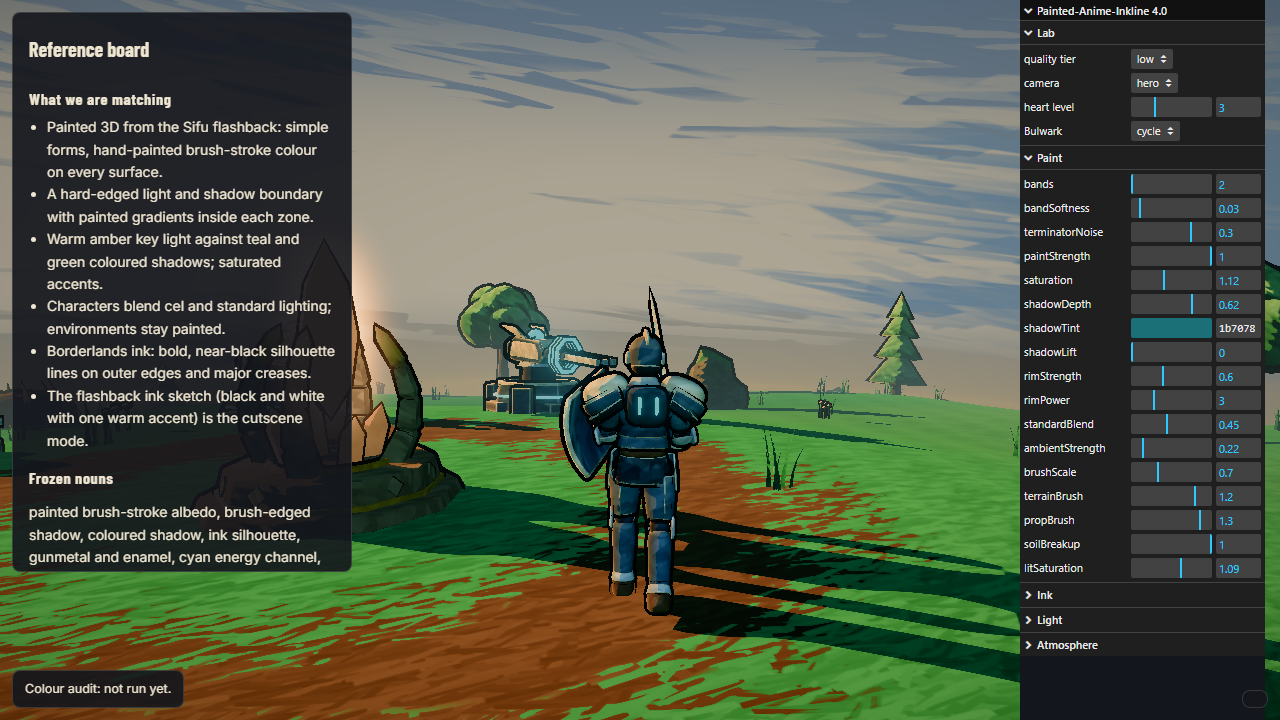
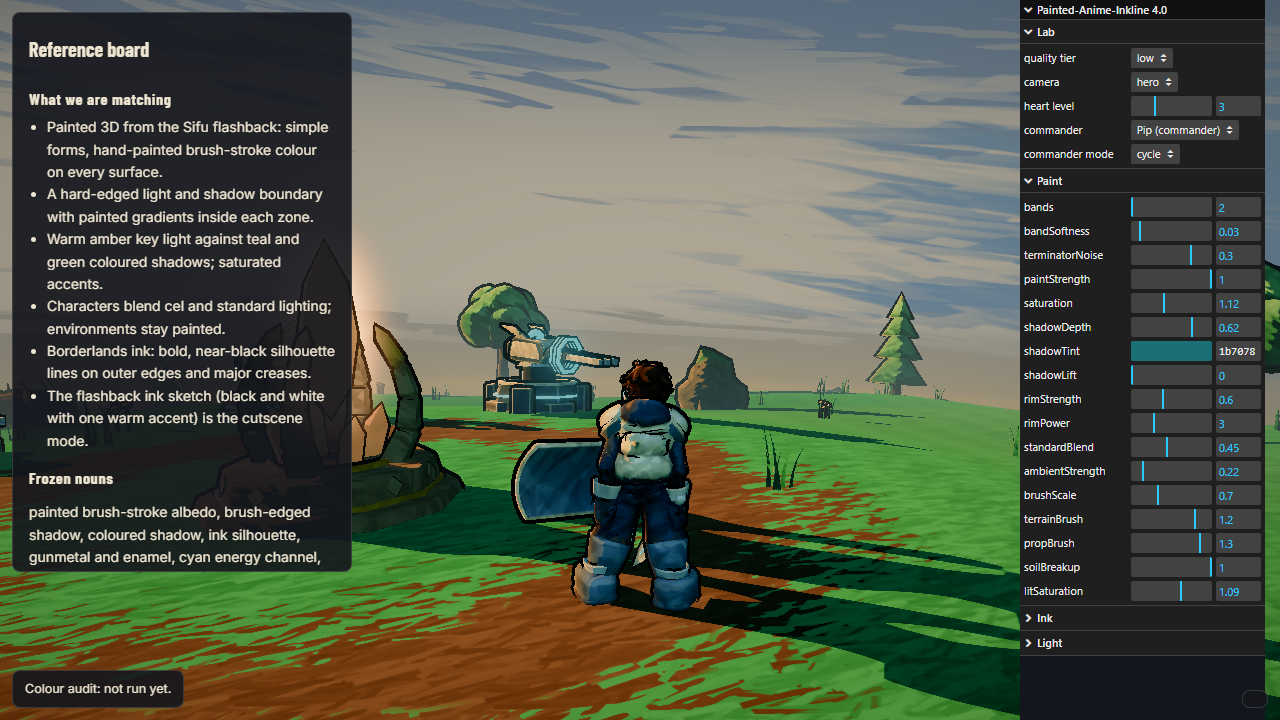
Retake the Style Lab evidence with Pip as default and Bulwark beside it
The evidence frames and the blueprint still showed Bulwark as the Style Lab's commander after the owner's decision of
2026-10-04 made Pip the default, and nothing recorded whether this branch's renderer work had moved the locked look
that Bulwark was approved in.

Both sets are retaken by the methods that took the lock's: the high tier on the RTX 4080 laptop at 1920x1080, unfrozen,
each camera applied inside an idle stretch of the commander's cycle with the lab UI hidden; the low tier as the browser
test takes it, SwiftShader at 1280x720 with the UI. Pip's frames take the old names, style-{camera}-{tier}.png, and
Bulwark's are style-{camera}-{tier}-bulwark.png.

Bulwark against the lock's frames, share of pixels differing by more than 2 of 255 and the largest difference: high tier
0.005 % (87), 0.018 % (102), 0.010 % (78) and 0.351 % (169) at the hero, strategic, close-up and horizon cameras, all
on the walking Husk, the turret heads and the commander's idle; two retakes differ from each other by 0.044, 0.093,
0.032 and 0.448 %, and outside that motion the lock's frames differ on at most 0.003 %. Low tier 3.8, 4.0, 21.6 and
3.7 % (UI included), because the lock's frames landed at later scene times; stepping a retake frame by frame, the canvas
between the board and the panel matches them on all but 0.0011, 0.025, 0 and 0.0002 %. So the renderer has not moved
the locked look for Bulwark.
[…]

diff --git a/docs/blueprint.md b/docs/blueprint.md
@@ -231,8 +231,9 @@ a milestone's assets are built, the Content entries for that milestone must equa
 counts, a rule kept by hand; later milestones' entries are plans until then. The current count
 is 9 manifest entries: M0c's 8, the `brush_strokes` and `ink_noise` textures and the models `verdant_kit`
 (8 pieces), `worldheart` (plinth and 11 stages), `nest`, `bolt_sentinel` (marks I to III), `husk`
-and `bulwark`, and M1's `commander_pip`, Pip-A, the commander preview (idle and run, the five face
-morphs, no attack clip until phase B). Pip-A was built in Blender 5.2.1 by the M1 study's scripts, which
+and `bulwark`, and M1's `commander_pip`, Pip-A, the build of Pip (commander), the M1 commander preview
+and since 2026-10-04 the default commander (idle and run, the five face morphs, no attack clip until
+phase B). Pip-A was built in Blender 5.2.1 by the M1 study's scripts, which
 are not yet a recipe in `blender/recipes`, and brought in through the build's own optimize, inspect and
 manifest steps; `npm run assets` keeps the committed file and does not rebuild it. Every placeable
 asset has its root at its ground contact point, so the bind-pose
@@ -269,7 +270,7 @@ face, so the hull does not outline the hair across it.
 
 | Class | Planned count | Recipe | First milestone |
 |---|---|---|---|
-| Commanders | 5 archetypes on one shared skeleton (Bulwark, Twinfang, Longsight, Kettle, Emberline), rebuilt from M1 in the CharForge style with a cartoon face; Pip-A (`commander_pip`) is the M1 preview of that rebuild | `bulwark.py` (M0); Pip-A from the M1 study's scripts; one recipe per commander after | M0 (Bulwark), M1 (Pip-A preview), M4 (all five) |
+| Commanders | 5 archetypes on one shared skeleton (Bulwark, Twinfang, Longsight, Kettle, Emberline), rebuilt from M1 in the CharForge style with a cartoon face; Pip (commander), built as Pip-A (`commander_pip`), is the M1 preview of that rebuild and the default commander since 2026-10-04, with Bulwark the alternate | `bulwark.py` (M0); Pip-A from the M1 study's scripts; one recipe per commander after | M0 (Bulwark, now the alternate), M1 (Pip-A preview, the default commander), M4 (all five) |
 | Allies | 1 (Warden) | `allies.py` | M4 |
 | Xeno species | 4 (Mite, Husk, Aegis, Wisp) plus 4 evolution overlays (armour, speed, shield, split) | `husk.py` (M0); one recipe per species after | M0 (Husk), M2 (all four) |
 | Towers | 6 families x 3 marks = 18 models, plus 12 specialization variants | `bolt_sentinel.py` (M0); one recipe per family after | M0 (Bolt Sentinel I to III), M2 (all) |
@@ -1054,7 +1055,13 @@ its measured rationale and gives renderer v1's start where it helps ("was"). In 
 defaults" and "the default key" mean renderer v1's starts, measured before the lock, unless a figure
 names the locked set. A dials link names only the dials that differ from the defaults, so a link made
 before the lock opens every dial it does not name at its locked value: B3's own link now opens the
-locked look with B3's edgeStrength of 1 and litSaturation of 0.87.
+locked look with B3's edgeStrength of 1 and litSaturation of 0.87. The colour audit at the locked
+defaults, frozen at 1920 x 1080 on the RTX 4080 laptop (gate 1.5), with Pip (commander), the labs'
+default commander since 2026-10-04: 1.927, 1.942 and 1.945 at the hero camera on the high, medium and
+low tiers, and 1.963, 1.980 and 1.982 at the close-up, strategic and horizon cameras on high. With
+Bulwark, the commander the look was locked on (`?commander=bulwark`): 1.926, 1.942 and 1.946, and 1.974,
+1.980 and 1.982, the lock's figures to the digit. The mutation proof rejects the hue-rotated copy of all
+twelve frames. Where a row's figures name Bulwark, they were measured with him.
 
 | Dial | Locked | Rationale |
 |---|---|---|
@@ -1252,8 +1259,10 @@ Bulwark, Twinfang, Longsight, Kettle and Emberline (v3), on one shared skeleton;
 M1 the commanders take the owner's CharForge style, as its Bo and Pip show
 (https://majieddd.github.io/charforge/): about 4.5 to 5 heads tall, oversized hands and feet, slim
 limbs and chunky rounded volumes, with a visible cartoon face (painted features, blink and jaw shape
-keys). M0's Bulwark stays the visored knight the style gate locked on. Pip-A (`commander_pip`) is
-the M1 preview of the rebuild. Inspection view: Asset World (`/labs/world.html?family=commanders`,
+keys). M0's Bulwark stays the visored knight the style gate locked on. Pip (commander), built as
+Pip-A (`commander_pip`), is the M1 preview of the rebuild and, by the owner's decision of 2026-10-04,
+the default commander, with Bulwark the alternate; the owner has not named the character yet, so the
+labs call him "Pip (commander)". Inspection view: Asset World (`/labs/world.html?family=commanders`,
 Pip (commander) first and Bulwark after him, his face with `?member=pip_face`, one of Bulwark's clips
 with `?member=bulwark_run`), the Style Lab, which opens on Pip (`?commander=bulwark` for Bulwark), and
 the M1 test course (`/labs/course.html`).
@@ -1298,10 +1307,16 @@ built); Planet Lab's disaster trigger for disasters.
 ### Style
 
 Inspection view: **Style Lab** (`/labs/style.html`), the style scene with live dials, the reference
-board, and the colour audit. Its commander is Bulwark, the locked look's; the panel's commander control,
-or `?commander=pip`, shows Pip-A in his place and cycle, blinking, holding his idle where Bulwark strikes
-until his attack clip is made (phase B). A lab opened without the parameter never loads Pip-A, and its
-hero frame is unchanged: 0 of 2,073,600 pixels differ at `?tier=high&freeze=1` on the GPU.
+board, and the colour audit. Its commander is Pip (commander), the default since the owner's decision
+of 2026-10-04 (Decided), built as `commander_pip`: he loads with the other models, so the first frame and
+its colour audit show him with no swap, blinking on his own timing, in the commander's cycle, holding his
+idle where Bulwark strikes until his attack clip is made (phase B); `?commander=pip` names him too.
+Bulwark, the visored knight the look was locked on, is the alternate: the panel's commander control or
+`?commander=bulwark` shows him, and a lab opened on him loads nothing of Pip until the panel switches.
+An unknown `?commander=` name shows Pip and names itself once in the console and the banner, and a build
+whose manifest lacks Pip shows Bulwark and says so. Opened on Bulwark, the lab draws the look as it was
+locked: the colour audit reads the lock's figures to the digit (Render defaults), and his evidence
+frames match the lock's but for the moving Husk, turrets and commander (Where we are, 2026-10-04).
 
 ### Asset World
 
@@ -1474,12 +1489,13 @@ The order of construction:
 |---|---|---|
 | Browser game: TypeScript, Three.js on WebGL2, Vite, GitHub Pages | partial | toolchain, CI and Pages live (docs/evidence/m0/pages-placeholder.png); no game yet |
 | Repository majieddd/99-planets-to-defend-v4, public | partial | repository created holding this blueprint, 2026-09-23 |
-| Approach A: painted assets, shader lighting, two-pass ink | in game | Style Lab live; docs/evidence/m0/style-hero-high.png; locked dials in src/render/defaults.ts |
-| Painted-Anime-Inkline 4.0 render defaults locked, from preset B3's link with the owner's three adjustments | in game | owner, 2026-09-28: "I looked at the golden-hour style lab, and it definitely looks great! Let's stick with it, but here are a couple minor adjustments to make as the default: Make default EdgeStrength = .33; Make default Edgefadefar = 65" and "Also make litsaturation 1.09"; preset B3's live link with those three adjustments, locked in src/render/defaults.ts (Render defaults); frames at the locked defaults in docs/evidence/m0/style-*-high.png and style-*-low.png |
+| Approach A: painted assets, shader lighting, two-pass ink | in game | Style Lab live; docs/evidence/m0/style-hero-high.png (Pip (commander), the default since 2026-10-04) and style-hero-high-bulwark.png (Bulwark); locked dials in src/render/defaults.ts |
+| Painted-Anime-Inkline 4.0 render defaults locked, from preset B3's link with the owner's three adjustments | in game | owner, 2026-09-28: "I looked at the golden-hour style lab, and it definitely looks great! Let's stick with it, but here are a couple minor adjustments to make as the default: Make default EdgeStrength = .33; Make default Edgefadefar = 65" and "Also make litsaturation 1.09"; preset B3's live link with those three adjustments, locked in src/render/defaults.ts (Render defaults); frames at the locked defaults with Bulwark, the commander it was locked on, in docs/evidence/m0/style-*-high-bulwark.png and style-*-low-bulwark.png (retaken 2026-10-04 by the lock's methods), and with Pip (commander), the default since then, in style-*-high.png and style-*-low.png |
 | Every asset built by script in Blender 5.2.1 | partial | style-scene set built by npm run assets; assets:check pass=8 fail=0; sheets in docs/evidence/assets |
 | Stylized, visored commanders | dropped | owner replaced the visor with a visible cartoon face, 2026-09-27 |
 | Character bodies in the owner's CharForge stylized cartoon style, as its Bo and Pip show (https://majieddd.github.io/charforge/): about 4.5 to 5 heads tall, oversized hands and feet, slim limbs, chunky rounded volumes | not yet | owner choice, 2026-09-27; it replaces heroic proportions; the commanders take it first, from M1 (Task list); which other characters take it, such as the Warden on the commanders' skeleton, is not yet decided |
 | Commanders show a visible cartoon face: painted features, with blink and jaw shape keys | not yet | owner choice, 2026-09-27; it replaces the visor, and M0's Bulwark stays visored |
+| Pip is the default commander; Bulwark is an alternate | partial | owner, 2026-10-04: "yes make Pip the default, keep Bulwark as alternate"; in both labs: the Style Lab opens on Pip (commander) (`commander_pip`), `?commander=bulwark` opens Bulwark, and the Asset World's commanders' zone leads with Pip, Bulwark after him; frames in docs/evidence/m0/style-*-high.png and style-*-low.png (Pip) and style-*-bulwark.png (Bulwark); no game yet |
 | Generated sources, such as CharForge shapes, allowed only as inputs that a Blender 5.2.1 recipe re-proportions, decimates, repaints, animates and exports | not yet | owner choice, 2026-09-27; no Mac is available to run CharForge, so M1's commanders are modelled in Blender against the published Bo and Pip GLBs as measured proportion references |
 | The game stays free and non-commercial | partial | owner, 2026-09-27; the public Pages site is free to open, and no license records the non-commercial terms yet (Task list) |
 | Every v3 system returns, staged by milestone for quality | not yet | owner choice, 2026-09-23 |
@@ -1539,7 +1555,8 @@ The order of construction:
       materials, soft skin light from `_SKIN`, no crease ink on skin meshes, the labs' face driver;
       Kit, Face morphs and skin); Pip-A, the first build, is in the manifest (morph names recorded,
       the `commanders` budget's morph line, his attack pending) and in both labs, and the owner judges
-      him there. Phase B for Pip-A: the attack clip, and the face's export (see Where we are)
+      him there; since 2026-10-04 he is the labs' default commander and Bulwark the alternate
+      (Decided). Phase B for Pip-A: the attack clip, and the face's export (see Where we are)
 - [ ] For M2, from the M0 gate: a per-pixel ink signal so the bloom never lifts fogged or edge ink;
       per-theme seeds for the sun dials, which override the theme's light; a bloom rule for warm
       hazards such as magma, which would take heartHalo because warm glow means the heart; deciding
@@ -1602,7 +1619,8 @@ still locks on the current, visored Bulwark, and the new commander is M1's first
 locked as Painted-Anime-Inkline 4.0: preset B3's live link with three adjustments, edge ink strength
 0.33, the edge fade's far end at 65 m and lit saturation 1.09 (Render defaults, which quote the
 owner). `DEFAULT_DIALS` holds the locked set, the Style Lab opens on it with no dials link, and the
-high-tier evidence frames were taken at it (docs/evidence/m0/style-{hero,strategic,closeup,horizon}-high.png).
+high-tier evidence frames were taken at it (docs/evidence/m0/style-{hero,strategic,closeup,horizon}-high.png,
+with Bulwark; since 2026-10-04 those names hold Pip's frames and Bulwark's are the `-bulwark` ones).
 At the hero camera the colour audit reads 1.926, 1.942 and 1.946 times chance on the high, medium and
 low tiers (gate 1.5), the mutation proof rejects the hue-rotated copy of each, and on the RTX 4080
 laptop the high tier draws the hero camera at 2560 x 1440 in 2.07 ms uncapped (16.67 ms under vsync).
@@ -1661,4 +1679,29 @@ off at every pitch (tests/unit/labs/play-motion.test.ts). A key held with Ctrl, 
 its shortcut, Cmd going down lets go of the held keys, the slider heart's reach is read again when it changes while he
 plays, and leaving play gives the turntable back as it was. It stays a lab prototype, not the M1 commander controller,
 and Next is unchanged.
-2026-10-04. The expression-decal renderer and the anime-head WIP are shelved on branch `m1-anime-shelved`.
+2026-10-04. The expression-decal renderer (texture-swap eye and mouth cells for an anime head) and the anime head test GLB are shelved on branch `m1-anime-shelved` (head 69b86c3); Pip-A's face stays on morphs.
+2026-10-04. Pip is the default commander and Bulwark the alternate, at the owner's word: "yes make Pip
+the default, keep Bulwark as alternate" (Decided). The Style Lab opens on Pip (commander), loaded with
+the other models so his first frame and its colour audit need no swap; `?commander=bulwark` opens
+Bulwark without loading Pip, an unknown name falls back to Pip and a manifest without Pip to Bulwark,
+each named in the banner. The Asset World's commanders' zone leads with Pip, idle, run and face on the
+level clearing beside the Husk, and Bulwark follows past it, each row under a placard naming its
+commander; Pip's zone of his own is gone, his attack member comes with his attack clip, and Play Pip
+(prototype) spawns in front of his row, 2.41 m clear of every member's reach (Asset World layout). The
+colour audit at the locked defaults, frozen at 1920 x 1080 on the RTX 4080 laptop, reads 1.927, 1.942
+and 1.945 with Pip at the hero camera on the high, medium and low tiers and 1.963, 1.980 and 1.982 at
+the close-up, strategic and horizon cameras on high, and with Bulwark the lock's 1.926, 1.942 and 1.946
+and 1.974, 1.980 and 1.982 (gate 1.5); the mutation proof rejects every hue-rotated copy. The evidence
+frames now show Pip under their old names (docs/evidence/m0/style-{hero,strategic,closeup,horizon}-{high,low}.png)
+and Bulwark under `-bulwark` names, each set taken by the method that took the lock's: the high tier
+unfrozen at 1920 x 1080 on the GPU inside an idle stretch of the commander's cycle with the lab UI
+hidden, the low tier as the browser test takes it, under SwiftShader at 1280 x 720 with the UI. They show
+that this branch's renderer has not moved the locked look for Bulwark. At the high tier his retakes
+differ from the lock's frames on 0.005, 0.018, 0.010 and 0.351 percent of the pixels by more than 2 of
+255 at the hero, strategic, close-up and horizon cameras, all on the walking Husk, the turret heads
+tracking it and the commander's idle, against 0.044, 0.093, 0.032 and 0.448 percent between two retakes,
+and on at most 0.003 percent outside that motion. The lock's low-tier frames landed at later scene times
+than the retakes, so a retake differs on 3.7 to 21.6 percent of the frame, on the same moving actors and
+the panel's new commander rows; at the matching scene time the canvas strip between the board and the
+panel differs on 0.0011, 0.025, 0 and 0.0002 percent, the four cameras in the same order. Next is
+unchanged: Pip's phase B (his attack clip and a face export that fixes the seams), alongside M1 and M2.
